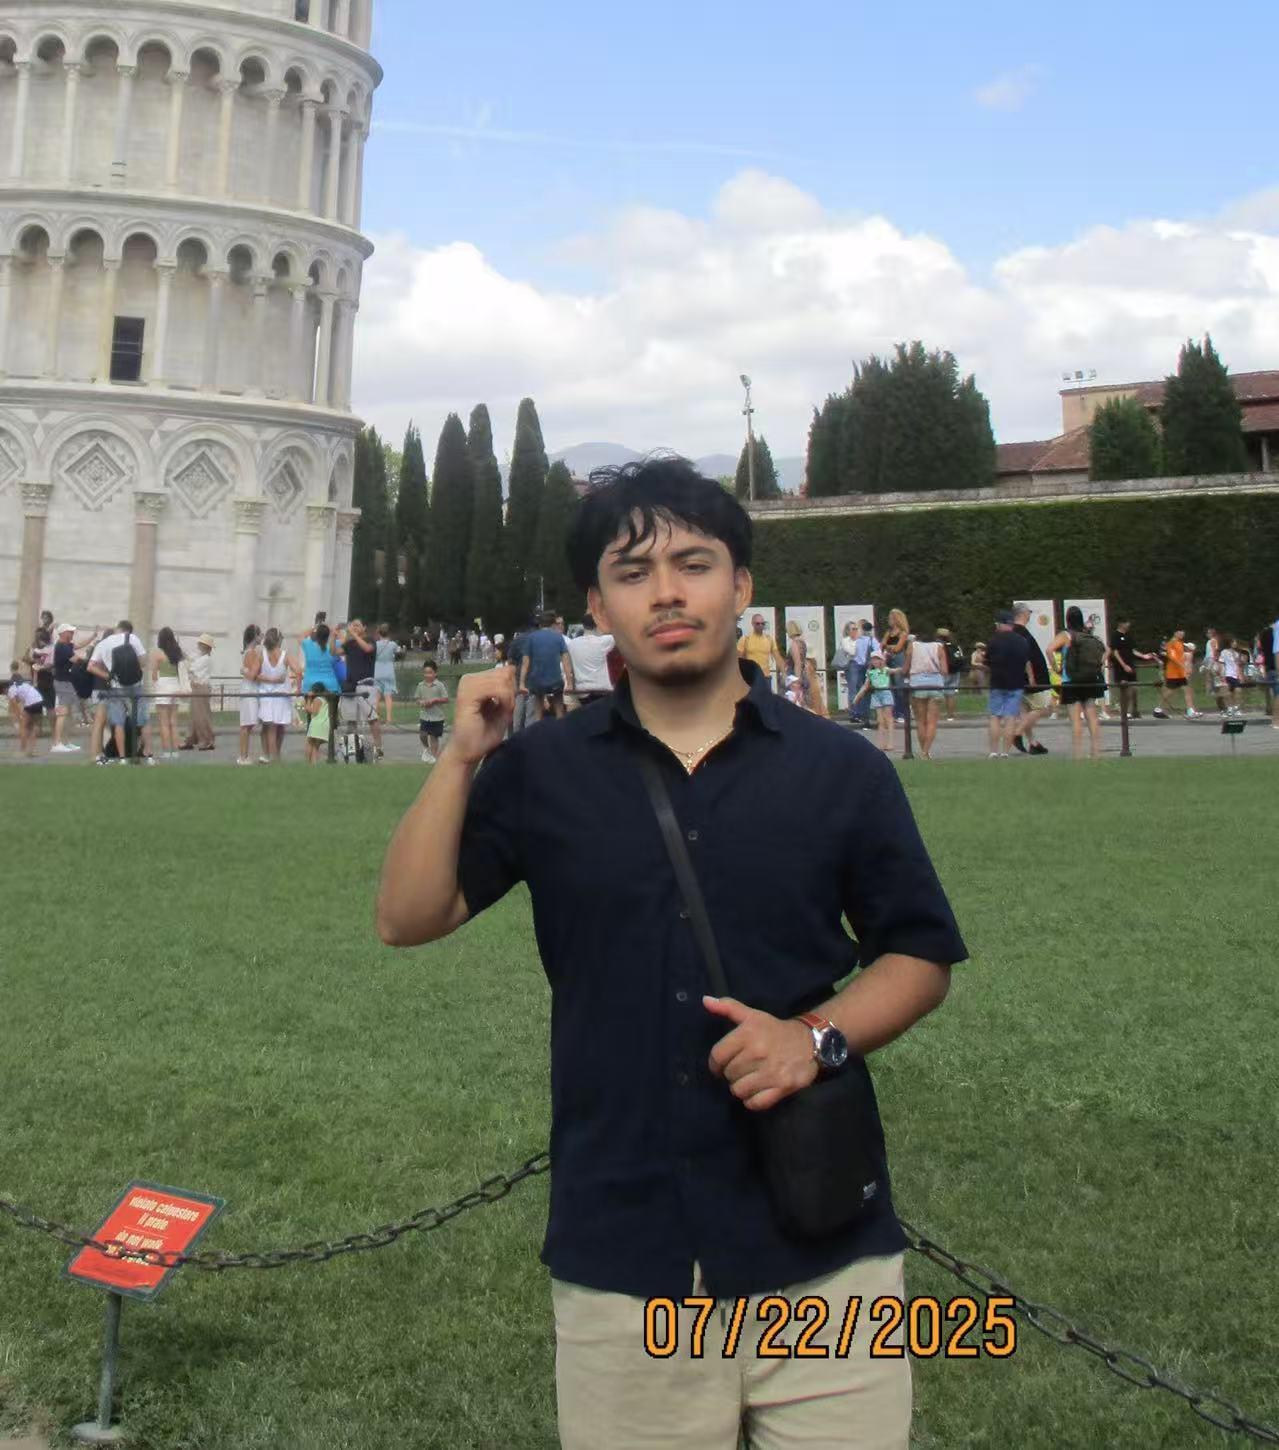
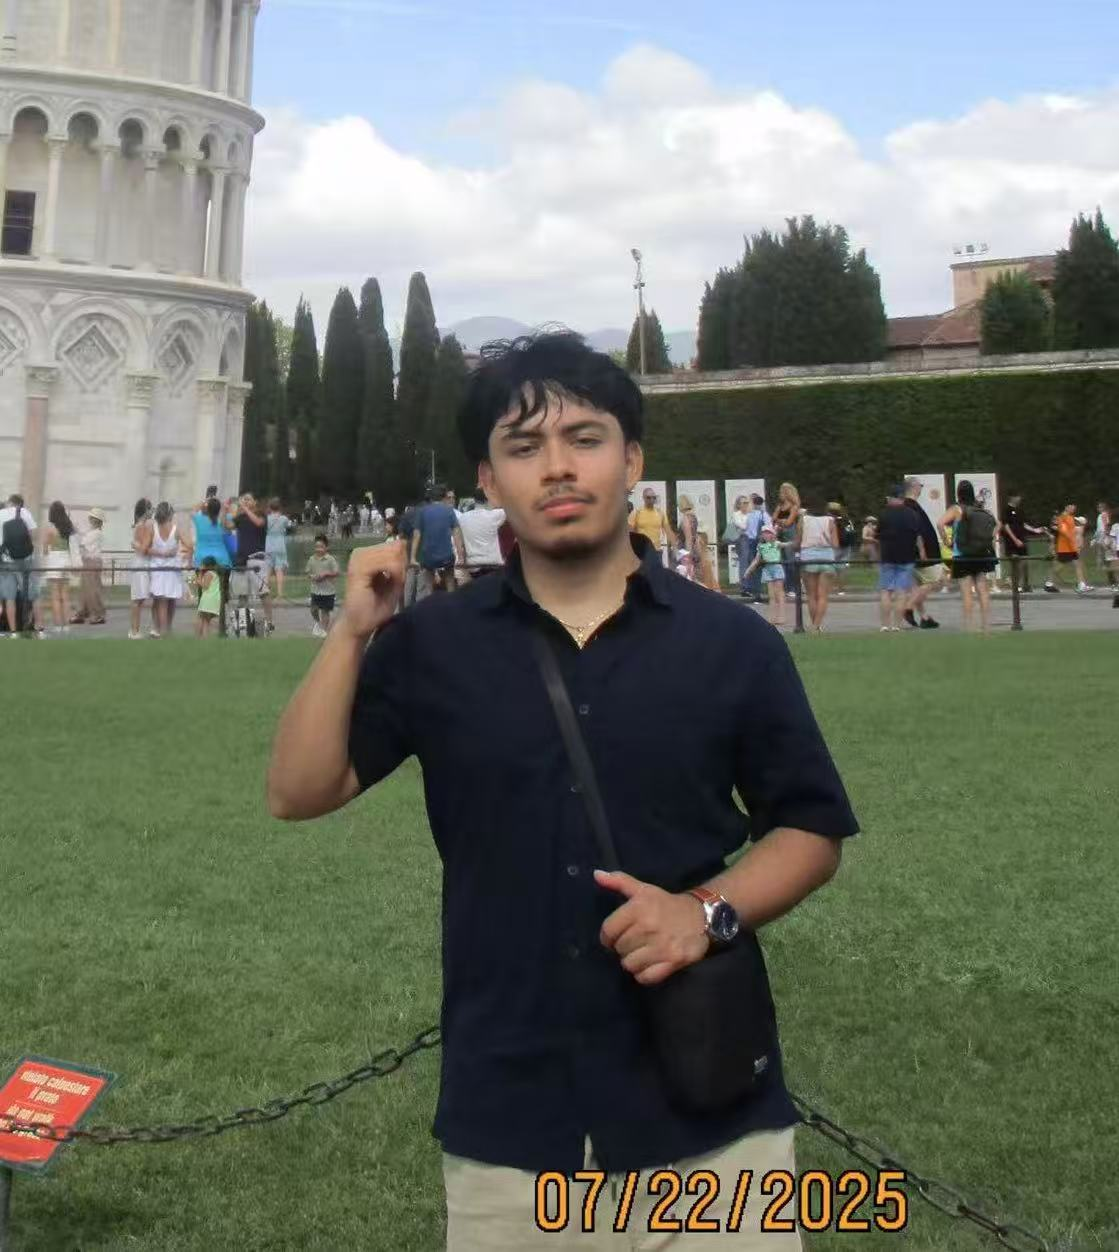
officer pic size update again

diff --git a/docs/Pages/officers.html b/docs/Pages/officers.html
@@ -208,13 +208,13 @@ gtag('config', 'G-PBFWYVSBYV', { 'anonymize_ip': true});
   <img src="../Images/Staff/2526Staff/Prisha.png" class="img-fluid rounded-circle" alt="Prisha Bobde">
   <div class="staff-name">Prisha Bobde</div>
   <p>Secretary</p>
-  <p>3rd Year - Statistics &amp; Data Science</p>
+  <p>3rd Year - Statistics &amp; Data Science + Computer Science</p>
   <div class="fun-fact">Fun fact: Pet a capybara at UCSB 😍</div>
   </div>
 
   <!-- Bowie Chuang -->
   <div class="staff-card text-center translucent-background">
-  <img src="../Images/Staff/2526Staff/Bowie.png" class="img-fluid rounded-circle" alt="Bowie Chuang">
+  <img src="../Images/Staff/2526Staff/Bowie.jpg" class="img-fluid rounded-circle" alt="Bowie Chuang">
   <div class="staff-name">Bowie Chuang</div>
   <p>Website Chair</p>
   <p>4rd Year - Statistics &amp; Data Science + Economics</p>
@@ -253,7 +253,7 @@ gtag('config', 'G-PBFWYVSBYV', { 'anonymize_ip': true});
   <img src="../Images/Staff/2526Staff/Raymond.jpg" class="img-fluid rounded-circle" alt="Raymond Vargas">
   <div class="staff-name">Raymond Vargas</div>
   <p>Event Chair</p>
-  <p>3rd Year - History &amp; Statistics</p>
+  <p>3rd Year - History</p>
   <div class="fun-fact">Fun fact: Is a sl*t for citrus 🍋</div>
   </div>
 
@@ -271,7 +271,7 @@ gtag('config', 'G-PBFWYVSBYV', { 'anonymize_ip': true});
   <img src="../Images/Staff/2526Staff/Sabrina.png" class="img-fluid rounded-circle" alt="Sabrina Nguyen">
   <div class="staff-name">Sabrina Ngyuen</div>
   <p>Outreach Officer</p>
-  <p>3rd Year - Statistics &amp; Data Science</p>
+  <p>3rd Year - Financial Math &amp; Statistics</p>
   <div class="fun-fact">Fun fact: Got bit in the face by a dog at age 4, paid for ¾ year of tuition 🤑</div>
   </div>
 
@@ -298,7 +298,7 @@ gtag('config', 'G-PBFWYVSBYV', { 'anonymize_ip': true});
 <hr class="section-divider" style="margin:60px 0; opacity:0.25;">
 <section id="alumni-officers">
   <h2 class="section-title anchored" style="text-align:center;margin:40px 0 24px;">
-    Alumni Officers
+    DS Collab Alumni
   </h2>
 
   <div class="staff-grid">
